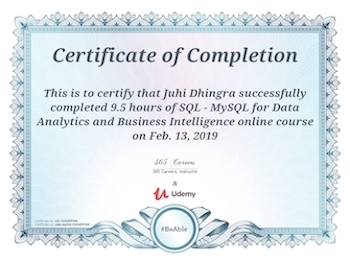
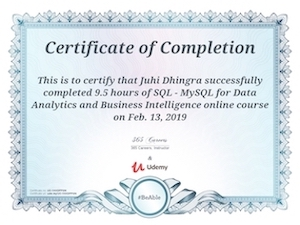
removing certificates link.

diff --git a/certificate.html b/certificate.html
@@ -72,16 +72,20 @@
             <div class="container">
                 <div class="feature_inner row">
                     <div class="col-lg-6 col-md-6 ">
-                        <div class="center_image" >
-                        <a  href="https://www.udemy.com/certificate/UC-1KKDPPGN/?utm_campaign=email&utm_source=sendgrid.com&utm_medium=email" target="_blank">
-                                <img src="img/certificate/my_sql_1.jpg" ></img>
+                        <div class="feature_item" >
+                        <a href="https://www.udemy.com/certificate/UC-1KKDPPGN/?utm_campaign=email&utm_source=sendgrid.com&utm_medium=email" target="_blank">
+                                <img class="center_image" src="img/certificate/my_sql.jpg"
+                                srcset="img/certificate/my_sql_big.jpg 200w,
+                                    img/certificate/my_sql_big.jpg 150w,
+                                    img/certificate/my_sql_1.jpg 100w"
+                                sizes="(min-width: 200px) 200px, 100vw"></img>
                         </a>
                         </div>
                     </div>
                     <div class="col-lg-6 col-md-6">
-                        <div class="center_image">
+                        <div class="feature_item">
                              <a href="https://www.udemy.com/certificate/UC-XIXCGX32/?utm_campaign=email&utm_source=sendgrid.com&utm_medium=email" target="_blank">
-                                <img src="img/certificate/python_az_1.jpg"></img>
+                                <img class="center_image" src="img/certificate/python_az_1.jpg"></img>
                              </a>
                         </div>
                     </div>

diff --git a/index.html b/index.html
@@ -41,9 +41,6 @@
                                 <li class="nav-item active"><a class="nav-link" href="index.html#skills">Skills</a></li>
                                  <li class="nav-item active"><a class="nav-link" href="index.html#higlights">higlights</a></li>
                                 <li class="nav-item active"><a class="nav-link" href="index.html#work_exp">Work Experience</a></li>
-                                <li class="nav-item active"><a class="nav-link" href="certificate.html">Certificates</a></li>
-
-								
 							</ul>
 						</div> 
 					</div>

diff --git a/css/style.css b/css/style.css
@@ -2998,6 +2998,12 @@ h6 {
   .copy_right_text p a {
     color: #766dff; }
 
+.center_image {
+   display: block;
+  margin-left: auto;
+  margin-right: auto;
+}
+
 /* End Footer Area css
 ============================================================================================ */
 /*---------------------------------------------------- */
